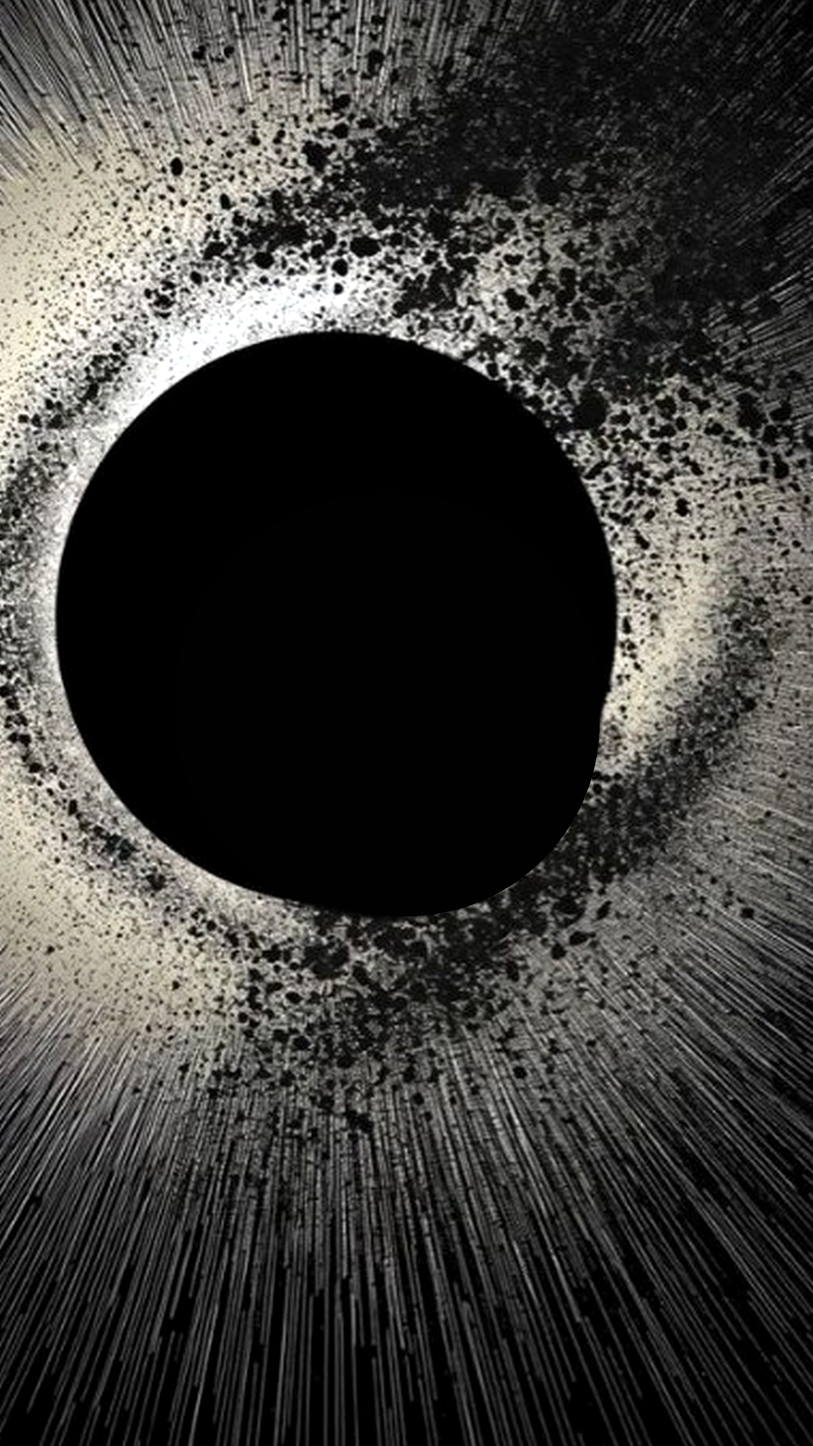
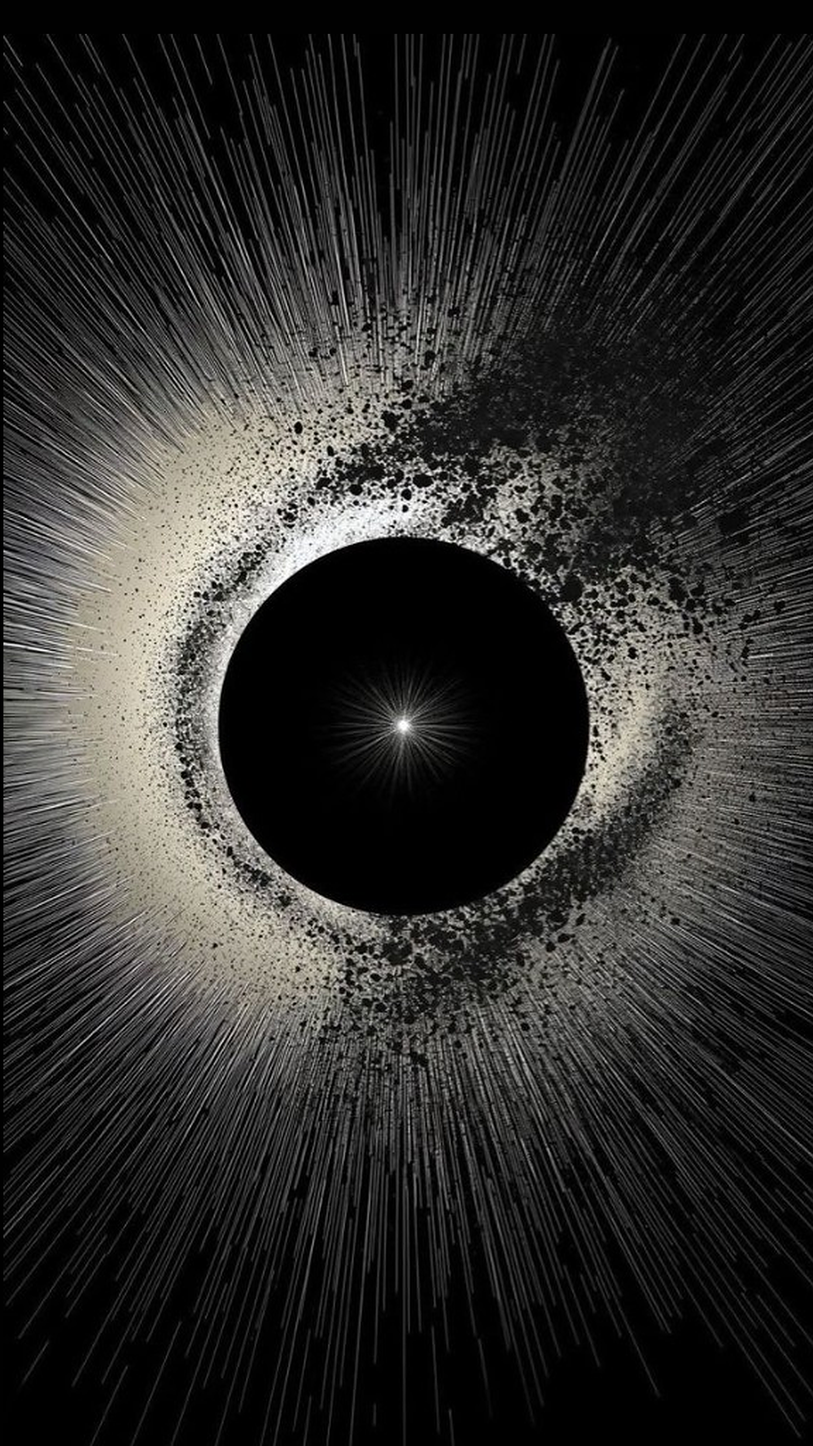
Publish HD homepage corona backgrounds with the seal centered in the black disc.

diff --git a/css/home-reveal.css b/css/home-reveal.css
@@ -18,10 +18,7 @@ html.is-home .stage.stage--alive {
   --home-rim: 1cm;
   --home-corona-iw: 2560;
   --home-corona-ih: 1440;
-  /* Painted black disc in the corona masters (px from image center) */
-  --home-disc-dx: -126;
-  --home-disc-dy: -184;
-  --home-disc-r: 494;
+  --home-disc-r: 333;
   display: flex !important;
   flex-direction: column !important;
   justify-content: center !important;
@@ -551,21 +548,17 @@ html.is-home .sound-toggle.is-muted {
   display: none;
 }
 
-/* Corona layer scaled so the painted black disc is 1cm beyond the seal,
-   and shifted so that disc shares the sigil's center. */
+/* Cover-sized corona, disc centered on the same origin as the sigil. */
 html.is-home .stage.stage--alive .stage__corona-bg {
   position: fixed;
   left: 50%;
   top: calc(50% - var(--home-lift));
-  width: calc(var(--home-corona-iw) * var(--home-bg-scale));
-  height: calc(var(--home-corona-ih) * var(--home-bg-scale));
-  transform: translate(
-    calc(-50% - var(--home-disc-dx) * var(--home-bg-scale)),
-    calc(-50% - var(--home-disc-dy) * var(--home-bg-scale))
-  );
+  width: calc(var(--home-corona-iw) * max(100vw / var(--home-corona-iw), 100vh / var(--home-corona-ih)));
+  height: calc(var(--home-corona-ih) * max(100vw / var(--home-corona-iw), 100vh / var(--home-corona-ih)));
+  transform: translate(-50%, -50%);
   z-index: 0;
   pointer-events: none;
-  background-color: transparent;
+  background-color: #010101;
   background-repeat: no-repeat;
   background-position: 50% 50%;
   background-size: 100% 100%;
@@ -576,14 +569,14 @@ html.is-home .stage.stage--alive .stage__corona-bg {
   html.is-home .stage.stage--alive {
     --home-corona-iw: 2560;
     --home-corona-ih: 1440;
-    --home-sigil: calc(682 * max(100vw / 2560, 100vh / 1440));
-    --home-bg-scale: calc((var(--home-sigil) / 2 + var(--home-rim)) / var(--home-disc-r));
+    --home-disc: calc(2 * var(--home-disc-r) * max(100vw / 2560, 100vh / 1440));
+    --home-sigil: calc(var(--home-disc) - 2 * var(--home-rim));
   }
 
   html.is-home .stage.stage--alive .stage__corona-bg {
     display: block;
     opacity: 1;
-    background-image: url('../assets/home-corona-bg-desktop.png?v=5');
+    background-image: url('../assets/home-corona-bg-desktop.png?v=6');
   }
 
   html.is-home .stage.stage--alive.stage--home-visible .stage__corona-bg {
@@ -599,7 +592,8 @@ html.is-home .stage.stage--alive .stage__corona-bg {
   }
 
   html.is-home .stage.stage--alive .stage__sigil-wrap {
-    --home-sigil: calc(682 * max(100vw / 2560, 100vh / 1440));
+    --home-sigil: calc(var(--home-disc) - 2 * var(--home-rim));
+    --home-radius: calc(var(--home-disc) * 0.58);
     --home-gutter: clamp(1.85rem, 3.8vmin, 2.85rem);
     --home-phrase: min(11rem, calc(50vw - var(--home-orbit) - 2rem));
     position: fixed;
@@ -675,8 +669,8 @@ html.is-home .stage.stage--alive .stage__corona-bg {
   html.is-home .stage.stage--alive {
     --home-corona-iw: 1440;
     --home-corona-ih: 2560;
-    --home-sigil: calc(682 * max(100vw / 1440, 100vh / 2560));
-    --home-bg-scale: calc((var(--home-sigil) / 2 + var(--home-rim)) / var(--home-disc-r));
+    --home-disc: calc(2 * var(--home-disc-r) * max(100vw / 1440, 100vh / 2560));
+    --home-sigil: calc(var(--home-disc) - 2 * var(--home-rim));
     --home-lift: max(2.6cm, 7vh);
     padding:
       max(0.65rem, env(safe-area-inset-top))
@@ -690,7 +684,7 @@ html.is-home .stage.stage--alive .stage__corona-bg {
   html.is-home .stage.stage--alive .stage__corona-bg {
     display: block;
     opacity: 1;
-    background-image: url('../assets/home-corona-bg-mobile.png?v=5');
+    background-image: url('../assets/home-corona-bg-mobile.png?v=6');
   }
 
   html.is-home .stage.stage--alive.stage--home-visible .stage__corona-bg {
@@ -721,7 +715,8 @@ html.is-home .stage.stage--alive .stage__corona-bg {
   }
 
   html.is-home .stage.stage--alive .stage__sigil-wrap {
-    --home-sigil: calc(682 * max(100vw / 1440, 100vh / 2560));
+    --home-sigil: calc(var(--home-disc) - 2 * var(--home-rim));
+    --home-radius: calc(var(--home-disc) * 0.58);
     --home-gutter: clamp(0.55rem, 2.6vw, 0.9rem);
     --home-phrase: max(4.4rem, calc(50vw - var(--home-orbit) - 0.55rem));
     position: fixed;

diff --git a/index.html b/index.html
@@ -22,9 +22,9 @@
   <link rel="preload" as="image" href="assets/symvolia-emblem-corona-hd.png?v=3">
   <link rel="preload" as="image" href="assets/logo-seal.png?v=3">
   <link rel="preload" as="image" href="assets/logo-seal-home.png?v=1">
-  <link rel="preload" as="image" href="assets/home-corona-bg-desktop.png?v=5" media="(min-width: 821px)">
-  <link rel="preload" as="image" href="assets/home-corona-bg-mobile.png?v=5" media="(max-width: 820px)">
-  <link rel="stylesheet" href="css/home-reveal.css?v=40">
+  <link rel="preload" as="image" href="assets/home-corona-bg-desktop.png?v=6" media="(min-width: 821px)">
+  <link rel="preload" as="image" href="assets/home-corona-bg-mobile.png?v=6" media="(max-width: 820px)">
+  <link rel="stylesheet" href="css/home-reveal.css?v=41">
   <link rel="stylesheet" href="css/ouroboros.css?v=38">
   <link rel="stylesheet" href="css/design-system.css?v=38">
   <link rel="stylesheet" href="css/environment.css?v=38">
